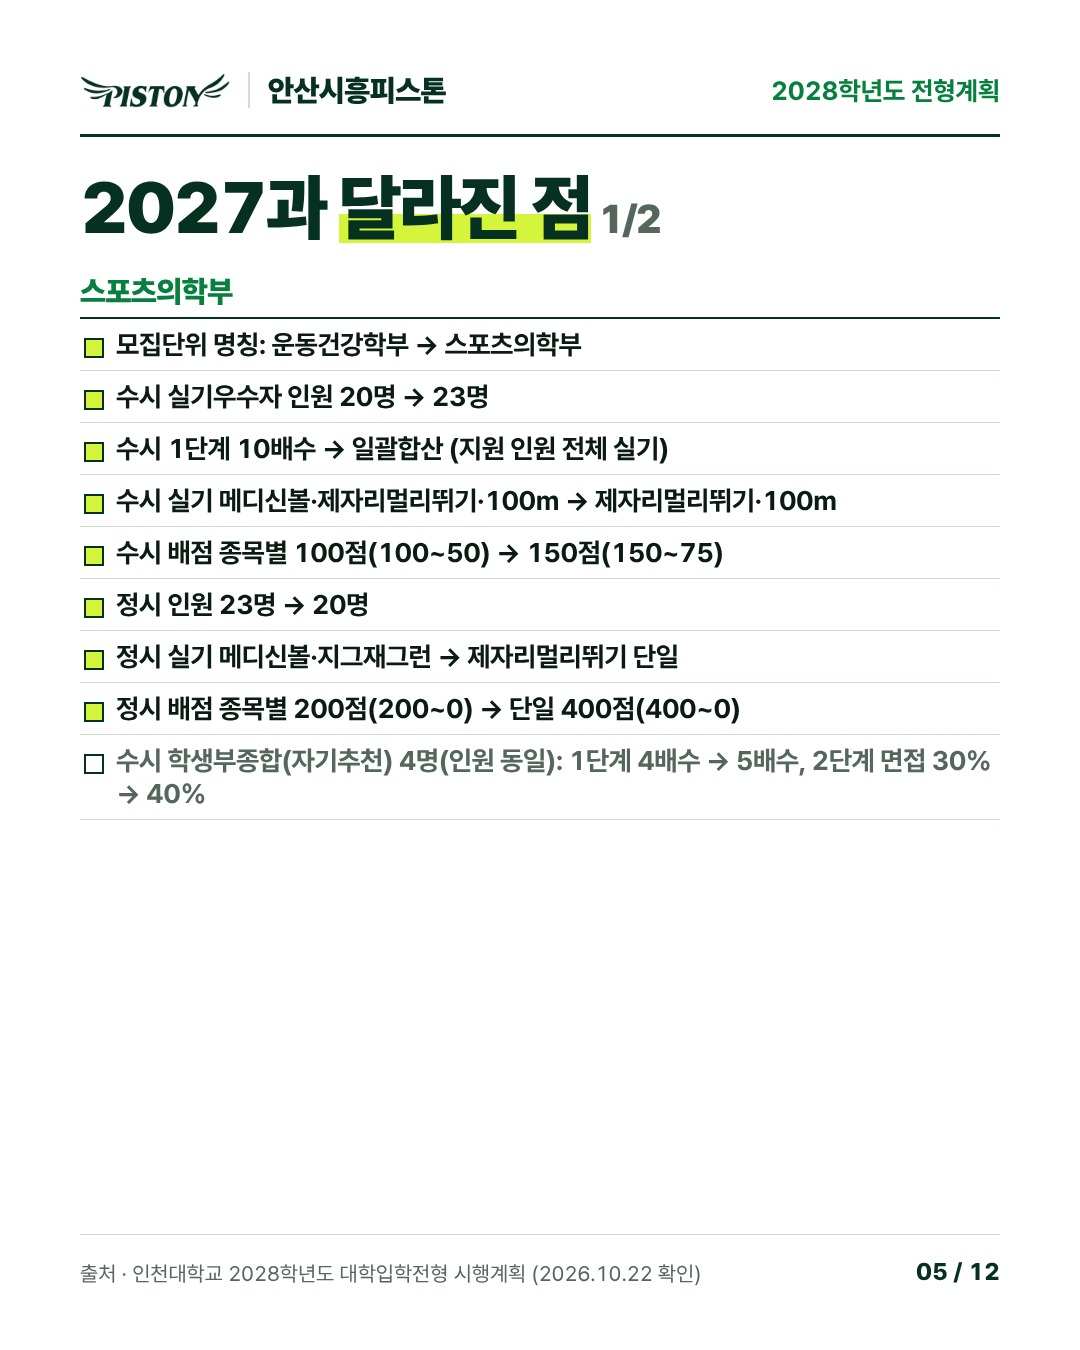
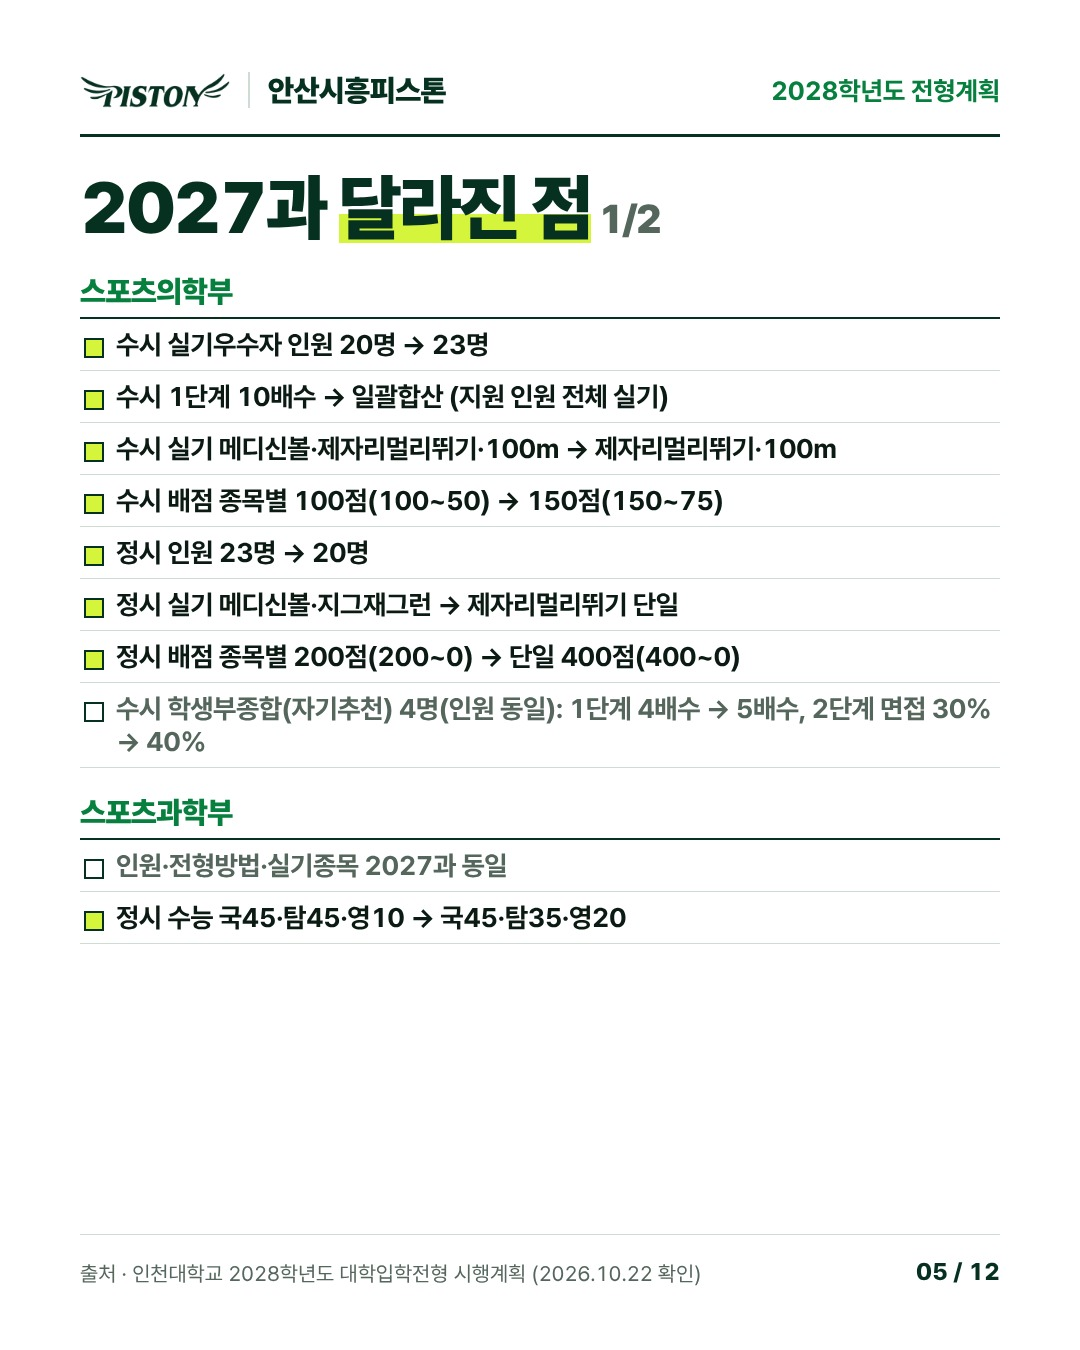
인천대 카드: 2027에 이미 바뀐 스포츠의학부 명칭 변경 항목 삭제
Claude-Session: https://claude.ai/code/session_01Je4BQmfHzJsBh4PM1FacXR

Changed region(s): [[0.0611, 0.2489, 0.9167, 0.6844], [0.0917, 0.4044, 0.1222, 0.4356]]

diff --git a/social/out/inu/factcheck.md b/social/out/inu/factcheck.md
@@ -36,7 +36,6 @@
 | 체육교육과 정시 실기 | 농구왕복레이업슛 200(200~80), 제자리멀리뛰기 150(150~60), 메디신볼던지기 150(150~60) | 동일 | [시트] 11행 | 일치 · 시트 기준(원문 PDF 미확인). 합 500 = 1,000×50% |
 | 체육교육과 정시 수능 | 국45·탐35·영20 | 국45 · 탐구 35 · 영어 20 | [캡처-⑬] | 일치 |
 | 체육교육과 정시 실질반영비율 (신규) | 수능 62.5% · 실기 37.5% | 실질반영비율 수능 62.5%, 실기 37.5% | [시트] 11행 | 일치 · 시트 기준(원문 PDF 미확인). 검산: 500 / (500 + 500−200=300) = 62.5% |
-| 변경점: 모집단위 명칭 | 운동건강학부 → 스포츠의학부 | 스포츠의학부(이전 운동건강학부) | [캡처-⑪⑫⑬] | 일치 |
 | 변경점: 스포츠의학부 수시 인원 | 20명 → 23명 | 20 → 23 | [캡처-⑪]·[캡처-⑧] | 일치 |
 | 변경점: 스포츠의학부 1단계 | 10배수 → 일괄합산 (지원 인원 전체 실기) | 10배수 → 일괄합산, 실기대상 지원인원전체 | [캡처-⑧] | 일치 |
 | 변경점: 스포츠의학부 수시 종목 | 메디신볼·제자리멀리뛰기·100m → 제자리멀리뛰기·100m | 동일 | [캡처-⑫] | 일치 |

diff --git a/social/out/inu/blog.md b/social/out/inu/blog.md
@@ -50,7 +50,6 @@
 
 ## 2027학년도와 달라진 점
 **스포츠의학부**
-- 모집단위 명칭: 운동건강학부 → 스포츠의학부
 - 수시 실기우수자 인원 20명 → 23명
 - 수시 1단계 10배수 → 일괄합산 (지원 인원 전체 실기)
 - 수시 실기 메디신볼·제자리멀리뛰기·100m → 제자리멀리뛰기·100m
